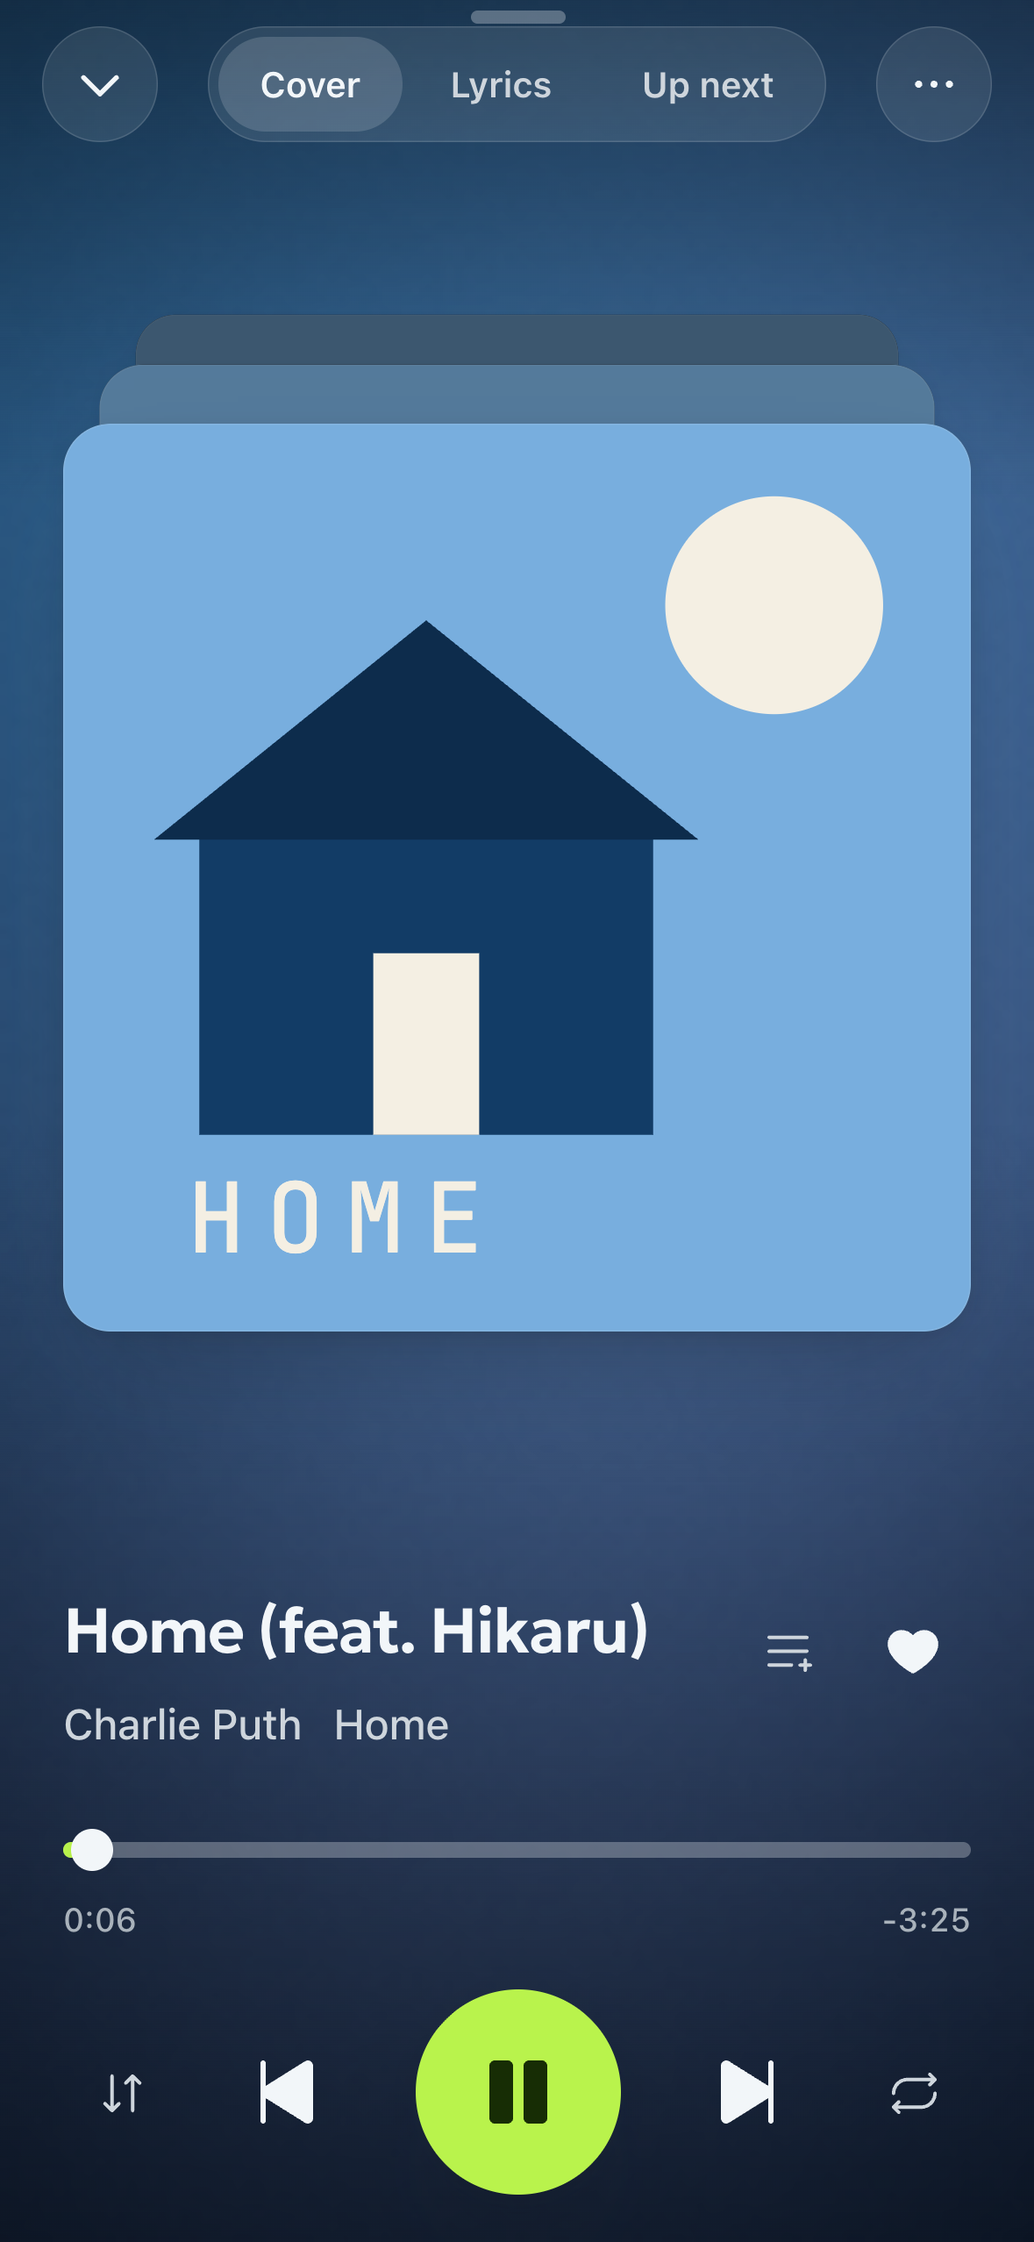
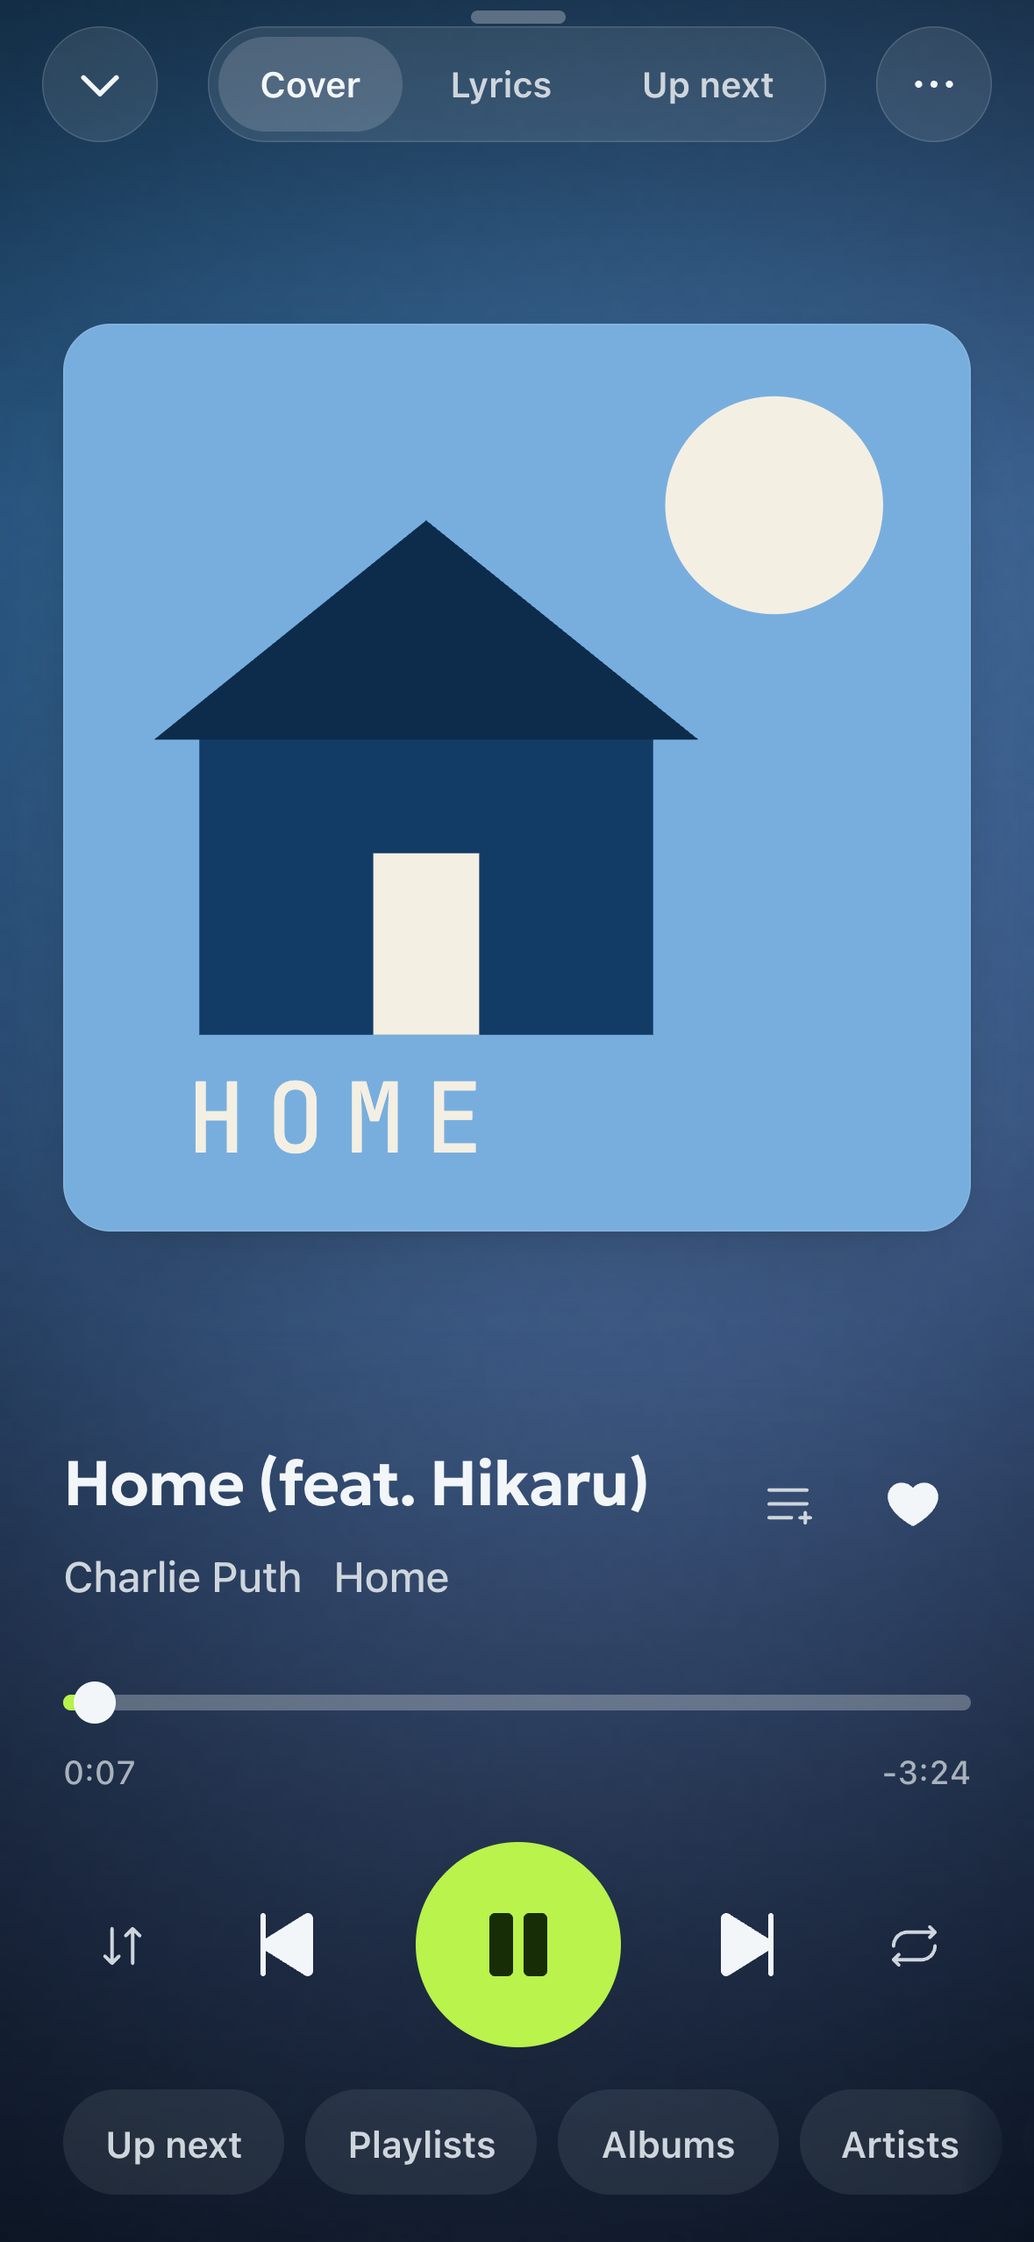
docs: 卡片浏览上墙——README、官网、DESIGN.md 跟着改，播放页截图重拍
- README / README_CN：「队列是一叠牌」换成「按封面挑歌」；界面一节加卡片浏览的截图，和正在播放并排。
- 官网：播放一节加「挑歌」标签和截图，三条说明里的叠牌换成按封面挑歌；正在播放的横屏、手机截图重拍
  （后面不再叠封面，控制下面多了一排入口）。
- DESIGN.md：当前封面（CurrentCover）与卡片浏览的尺寸、两种入口尺寸、焦点环画在中间那张卡上；
  开场动画只走合成器；黑胶 24 秒一圈；去掉已经没人用的 --shell-surface。

diff --git a/website/script.js b/website/script.js
@@ -29,16 +29,17 @@
     'windows.ipad.alt': 'iPad 竖屏上的专辑页：左侧导航条',
     'player.title': '房间取封面的颜色',
     'player.sub': '当前封面的色相落进房间的光里。亮度按主题固定，所以不管封面是什么颜色，字都读得清。点下面的画面，看光怎么换。',
-    'player.tab.player': '舞台', 'player.tab.phone': '手机',
+    'player.tab.player': '舞台', 'player.tab.browse': '挑歌', 'player.tab.phone': '手机',
     'player.tab.dark': '深色', 'player.tab.login': '欢迎页',
-    'player.cap.player': '横着的窗口：封面叠在左边，下面是控制，右边是放大的歌词，正在唱的那一行全亮。点任意一行跳过去。',
-    'player.cap.phone': '手机上的全屏播放器：从播放条上展开，封面从迷你播放条飞过来，叠在最上面。',
+    'player.cap.player': '横着的窗口：封面在左边，下面是控制和一排挑歌的入口；右边是放大的歌词，正在唱的那一行全亮。点任意一行跳过去。',
+    'player.cap.browse': '按封面挑歌：中间那张最大，两边小一档、压暗一点。左右滑着挑，点正中那张就放；每一栏记得自己滑到哪儿。',
+    'player.cap.phone': '手机上的全屏播放器：从播放条上展开，封面从迷你播放条飞到上方。',
     'player.cap.dark': '深色：青柠在暗底上本身就够亮，直接当强调色。亮暗切换从开关处铺开，也可以跟随系统。',
     'player.cap.login': '欢迎页：糯米和毛豆挥手；还没有歌在放，房间的光是青柠色。NAS 几秒连上，网易云音乐、QQ 音乐用手机扫个码。',
     'stage.f1t': '全屏播放器是一座暗色舞台',
     'stage.f1b': '光场取自当前封面。歌词放得很大，正在唱的那一行全亮。它从播放条上展开，封面从迷你播放条飞过来。',
-    'stage.f2t': '队列是一叠封面',
-    'stage.f2b': '向左一甩是下一首，向右是上一首。点一下露出来的那几张，打开「接下来」。',
+    'stage.f2t': '按封面挑歌',
+    'stage.f2b': '接下来、歌单、专辑、歌手、收藏、全部歌曲，都能摊成一排大封面：左右滑着挑，点正中那张就放。',
     'stage.f3t': '换歌时，光从封面漫开',
     'stage.f3b': '新封面的颜色从它所在的位置向外铺开，把上一首的光推出去。系统开了「减弱动态效果」时只换颜色，不铺开。',
     'ipad.title': '在 iPad 上，像个 iPad 应用',
@@ -117,16 +118,17 @@
     'windows.ipad.alt': 'An album page on iPad in portrait with the side rail',
     'player.title': 'The room takes the colour of the cover',
     'player.sub': 'The hue of the cover that is playing falls into the light of the room. Lightness is fixed for each theme, so text stays readable on any cover. Pick a screen below and watch the light change.',
-    'player.tab.player': 'Stage', 'player.tab.phone': 'Phone',
+    'player.tab.player': 'Stage', 'player.tab.browse': 'Browse', 'player.tab.phone': 'Phone',
     'player.tab.dark': 'Dark', 'player.tab.login': 'Welcome',
-    'player.cap.player': 'A landscape window: the deck of covers and the controls on the left, large lyrics on the right with the current line fully lit. Tap any line to jump there.',
-    'player.cap.phone': 'The full-screen player on iPhone: it unfolds from the player bar, and the cover flies up from the mini player to sit on top.',
+    'player.cap.player': 'A landscape window: the cover on the left with the controls and the ways to browse below it, large lyrics on the right with the current line fully lit. Tap any line to jump there.',
+    'player.cap.browse': 'Pick by cover: the one in the middle is largest, its neighbours a size smaller and dimmed. Swipe through, tap the middle one to play; each row remembers where you left it.',
+    'player.cap.phone': 'The full-screen player on iPhone: it unfolds from the player bar, and the cover flies up from the mini player.',
     'player.cap.dark': 'Dark: lime is bright enough on a dark ground to be the accent itself. Switching between light and dark spreads out from the toggle, or follows the system.',
     'player.cap.login': 'The welcome page: Nuomi and Maodou wave, and with no song playing the light of the room is lime. A NAS connects in seconds; NetEase Cloud Music and QQ Music take a scan from your phone.',
     'stage.f1t': 'The full-screen player is a dark stage',
     'stage.f1b': 'A light field sampled from the cover lights it. Lyrics are large and the current line is fully lit. It unfolds from the player bar, and the cover flies up from the mini player.',
-    'stage.f2t': 'The queue is a deck of covers',
-    'stage.f2b': 'Flick left for the next track, right for the previous one. Tap the cards peeking out behind to open Up Next.',
+    'stage.f2t': 'Pick by cover',
+    'stage.f2b': 'Up Next, playlists, albums, artists, favourites and all tracks each open as a row of large covers. Swipe through, tap the middle one to play.',
     'stage.f3t': 'On a new track, the light spreads from the cover',
     'stage.f3b': 'The new cover’s colour spreads out from where the cover sits and pushes the previous light away. With Reduce Motion on, the colour simply changes.',
     'ipad.title': 'On iPad, it behaves like an iPad app',
@@ -215,11 +217,15 @@
   var SHOTS = {
     player: {
       src: 'assets/player.webp', w: 1376, h: 1032, room: 'player', orient: 'landscape',
-      alt: ['横屏的全屏播放器：左边是叠在一起的封面和控制，右边是放大的歌词', 'The full-screen player in landscape: a deck of covers and controls on the left, large lyrics on the right'],
+      alt: ['横屏的全屏播放器：左边是封面和控制，下面一排挑歌的入口，右边是放大的歌词', 'The full-screen player in landscape: the cover, the controls and the ways to browse on the left, large lyrics on the right'],
+    },
+    browse: {
+      src: 'assets/browse.webp', w: 1376, h: 1032, room: 'player', orient: 'landscape',
+      alt: ['按封面挑专辑：中间一张大封面，两边小一档，下面是播放键', 'Browsing albums by cover: one large cover in the middle, its neighbours smaller on either side, a Play button underneath'],
     },
     phone: {
       src: 'assets/phone-player.webp', w: 1179, h: 2556, room: 'phone', orient: 'portrait',
-      alt: ['iPhone 上的全屏播放器：封面叠在上方，下面是进度条和播放键', 'The full-screen player on iPhone: a deck of covers on top, progress and play controls below'],
+      alt: ['iPhone 上的全屏播放器：封面在上方，下面是进度条、播放键和一排挑歌的入口', 'The full-screen player on iPhone: the cover on top, then progress, play controls and the ways to browse'],
     },
     dark: {
       src: 'assets/home-dark.webp', w: 1376, h: 1032, room: 'dark', orient: 'landscape',

diff --git a/website/index.html b/website/index.html
@@ -111,6 +111,7 @@
 
         <div class="tabs" role="tablist" aria-label="Screens">
           <button class="tab is-on" id="tab-player" type="button" role="tab" aria-selected="true"  aria-controls="stagePanel" data-shot="player" data-i18n="player.tab.player">舞台</button>
+          <button class="tab" id="tab-browse" type="button" role="tab" aria-selected="false" aria-controls="stagePanel" data-shot="browse" data-i18n="player.tab.browse">挑歌</button>
           <button class="tab" id="tab-phone" type="button" role="tab" aria-selected="false" aria-controls="stagePanel" data-shot="phone"  data-i18n="player.tab.phone">手机</button>
           <button class="tab" id="tab-dark" type="button" role="tab" aria-selected="false" aria-controls="stagePanel" data-shot="dark"   data-i18n="player.tab.dark">深色</button>
           <button class="tab" id="tab-login" type="button" role="tab" aria-selected="false" aria-controls="stagePanel" data-shot="login"  data-i18n="player.tab.login">欢迎页</button>
@@ -119,9 +120,9 @@
         <div id="stagePanel" role="tabpanel" aria-labelledby="tab-player" tabindex="0">
           <figure class="stage" data-orient="landscape">
             <div class="stage-frame">
-              <img class="shot" id="stageImg" src="assets/player.webp" alt="横屏的全屏播放器：左边是叠在一起的封面和控制，右边是放大的歌词" width="1376" height="1032" loading="lazy" />
+              <img class="shot" id="stageImg" src="assets/player.webp" alt="横屏的全屏播放器：左边是封面和控制，下面一排挑歌的入口，右边是放大的歌词" width="1376" height="1032" loading="lazy" />
             </div>
-            <figcaption id="stageCaption" data-i18n="player.cap.player">横着的窗口：封面叠在左边，下面是控制，右边是放大的歌词，正在唱的那一行全亮。点任意一行跳过去。</figcaption>
+            <figcaption id="stageCaption" data-i18n="player.cap.player">横着的窗口：封面在左边，下面是控制和一排挑歌的入口；右边是放大的歌词，正在唱的那一行全亮。点任意一行跳过去。</figcaption>
           </figure>
         </div>
 
@@ -131,8 +132,8 @@
             <p data-i18n="stage.f1b">光场取自当前封面。歌词放得很大，正在唱的那一行全亮。它从播放条上展开，封面从迷你播放条飞过来。</p>
           </div>
           <div class="stage-fact">
-            <h3 data-i18n="stage.f2t">队列是一叠封面</h3>
-            <p data-i18n="stage.f2b">向左一甩是下一首，向右是上一首。点一下露出来的那几张，打开「接下来」。</p>
+            <h3 data-i18n="stage.f2t">按封面挑歌</h3>
+            <p data-i18n="stage.f2b">接下来、歌单、专辑、歌手、收藏、全部歌曲，都能摊成一排大封面：左右滑着挑，点正中那张就放。</p>
           </div>
           <div class="stage-fact">
             <h3 data-i18n="stage.f3t">换歌时，光从封面漫开</h3>

diff --git a/README.md b/README.md
@@ -47,7 +47,7 @@ N1KO MUSIC wants to be a player you leave open all day. v6 rebuilt the interface
 |---|---|
 | **The room takes the colour of the song** | The shell is a quiet porcelain white (graphite at night), and the cover of the current track washes it in its own colour. Only the hue is taken; lightness is fixed per theme, so text stays just as readable whatever the cover. When the track changes, the new colour spreads outward from the cover. |
 | **The lights go down** | The full-screen player is always a dark stage: the background is a light field sampled from the cover, four soft lights drifting slowly; lyrics are set large and the current line is fully lit. Opening it unfolds the stage from the player bar while the cover flies over from the mini player; closing it reverses the trip. |
-| **The queue is a deck** | The next two covers peek out behind the one that is playing. Flick left for the next track, right for the previous one; the card behind leans forward as you flick. Tap the peeking cards to open the full Up Next list. |
+| **Pick by cover** | Under the controls sit Up Next, Playlists, Albums, Artists, Favourites and All tracks. Each opens a row of large covers: swipe through them and tap the one in the middle to play it. The cover that is playing still flicks: left for the next track, right for the previous one. |
 | **It moves like a thing** | Every press answers immediately and settles back without wobble; drags follow the finger, keep their velocity and can be interrupted at any time. Mouse wheels get an inertial glide (trackpads and touch already have one, so they are left alone), shelves snap card by card, and switching light and dark spreads out from the toggle. With Reduce Motion on, movement turns into plain fades. |
 | **Window-shaped, not device-shaped** | A narrow window gets a floating tab bar, a medium one a navigation rail, a wide one an iPadOS-style sidebar plus a Now Playing panel. |
 | **Nuomi and Maodou** | A white bunny in overalls and a green frog in headphones. They only appear when there is nothing else to look at: the splash, the welcome screen, an empty list, an error, with one pose per state. |
@@ -67,20 +67,26 @@ the source renders, the prompts behind them and the local cut-out script are in 
 
 <table>
 <tr>
-<td width="50%"><img src="docs/screenshots/v6/player.png" alt="Now Playing in landscape: a light field sampled from the cover, the queue as a deck, large lyrics" /></td>
+<td width="50%"><img src="docs/screenshots/v6/player.png" alt="Now Playing in landscape: a light field sampled from the cover, the cover and controls, large lyrics" /></td>
+<td width="50%"><img src="docs/screenshots/v6/browse.png" alt="Browsing albums by cover: one large cover in the middle, its neighbours smaller on either side, a Play button underneath" /></td>
+</tr>
+<tr>
+<td><b>Now Playing</b>: in a landscape window the cover and controls sit on the left with the ways to browse underneath; lyrics stay on the right, tap any line to jump to it.</td>
+<td><b>Pick by cover</b>: Up Next, playlists, albums, artists, favourites and all tracks, each as a row of large covers. Swipe through, tap the one in the middle to play it.</td>
+</tr>
+<tr>
 <td width="50%"><img src="docs/screenshots/v6/home-dark.png" alt="Home in dark mode" /></td>
-</tr>
-<tr>
-<td><b>Now Playing</b>: in a landscape window the deck and controls sit on the left, lyrics stay on the right; tap any line to jump to it.</td>
-<td><b>Dark</b>: graphite at night, with the room lit by the current cover. Follows the system setting.</td>
-</tr>
-<tr>
 <td width="50%"><img src="docs/screenshots/v6/album.png" alt="An album page on iPad in landscape: a large cover, the tracks and a margin note" /></td>
-<td width="50%"><img src="docs/screenshots/v6/login.png" alt="The connect page: Nuomi and Maodou waving hello" /></td>
 </tr>
 <tr>
+<td><b>Dark</b>: graphite at night, with the room lit by the current cover. Follows the system setting.</td>
 <td><b>Album page</b>: tap a card and its cover flies into place; scroll and the header folds away. Tracks, liner notes and your own margin note live on one page.</td>
-<td><b>Connect</b>: self-hosted servers and streaming sources both start here.</td>
+</tr>
+<tr>
+<td colspan="2" align="center"><img src="docs/screenshots/v6/login.png" alt="The connect page: Nuomi and Maodou waving hello" width="50%" /></td>
+</tr>
+<tr>
+<td colspan="2" align="center"><b>Connect</b>: self-hosted servers and streaming sources both start here.</td>
 </tr>
 </table>
 

diff --git a/README_CN.md b/README_CN.md
@@ -46,7 +46,7 @@ N1KO MUSIC 想做的是一个你愿意一直开着的播放器。v6 把界面从
 |---|---|
 | **房间随歌变色** | 外壳是安静的冷瓷白（深色是石墨夜），当前曲目的封面把它的颜色洒进房间。取色只取色相，亮度按主题锁住，所以换哪张封面，文字都一样清楚。切歌时，新的颜色从封面的位置向外漫开。 |
 | **灯暗下来的舞台** | 全屏播放器永远是暗场：背景是从封面取色的光场，四盏柔光慢慢游走；歌词是大字，当前行全亮。打开时舞台从底部播放条展开、封面从迷你条飞过去，收起原路飞回。 |
-| **队列是一叠牌** | 正在放的封面后面露出接下来的两张。左甩下一首、右甩上一首，甩的时候后面那张会跟着往前凑；点露出来的牌，展开完整的「接下来」。 |
+| **按封面挑歌** | 控制下面一排入口：接下来、歌单、专辑、歌手、收藏、全部歌曲。点开是一排大封面，左右滑着挑，点正中那张就放。正在放的那张封面照样能甩：左甩下一首，右甩上一首。 |
 | **像实物一样动** | 按下立刻有反馈，松手平稳弹回；拖动跟手、带速度、随时可以打断。鼠标滚轮补上了惯性滑行（触控板和触屏本来就有，不碰）；横向书架按卡片吸附；切亮暗从开关处扩散。系统开了「减弱动态效果」，位移一律退成淡入淡出。 |
 | **只看窗口，不看设备** | 窄窗口是底部浮动标签栏，中等宽度是左侧导航条，宽窗口是 iPadOS 式侧栏加右侧「正在播放」面板。iPhone、展开的 iPhone Duo、iPad 分屏、台前调度里随手拖的窗口，都拿到合适的那一套。 |
 | **糯米和毛豆** | 一只穿背带裤的白兔，一只戴耳机的绿青蛙。它们只在没有内容可看的时候出来：开屏、登录欢迎、空列表、出错的时候；每种状态一个姿势。 |
@@ -66,20 +66,26 @@ N1KO MUSIC 想做的是一个你愿意一直开着的播放器。v6 把界面从
 
 <table>
 <tr>
-<td width="50%"><img src="docs/screenshots/v6/player.png" alt="横屏的正在播放：封面取色的光场、叠起来的队列、大字歌词" /></td>
+<td width="50%"><img src="docs/screenshots/v6/player.png" alt="横屏的正在播放：封面取色的光场、封面和控制、大字歌词" /></td>
+<td width="50%"><img src="docs/screenshots/v6/browse.png" alt="按封面挑专辑：中间一张大封面，两边小一档，下面是播放键" /></td>
+</tr>
+<tr>
+<td><b>正在播放</b>：横着的窗口左边是封面和控制，下面一排是挑歌的入口；右边一直摆着歌词，点任意一行跳过去。</td>
+<td><b>按封面挑歌</b>：接下来、歌单、专辑、歌手、收藏、全部歌曲，都能摊成一排大封面。左右滑着挑，点正中那张就放。</td>
+</tr>
+<tr>
 <td width="50%"><img src="docs/screenshots/v6/home-dark.png" alt="深色的首页" /></td>
-</tr>
-<tr>
-<td><b>正在播放</b>：横着的窗口左边是牌堆和控制，右边一直摆着歌词，点任意一行跳过去。</td>
-<td><b>深色</b>：石墨夜色，房间的光换成当前封面的颜色，跟随系统切换。</td>
-</tr>
-<tr>
 <td width="50%"><img src="docs/screenshots/v6/album.png" alt="iPad 横屏上的专辑页：大封面、曲目、边注" /></td>
-<td width="50%"><img src="docs/screenshots/v6/login.png" alt="连接页：糯米和毛豆挥手欢迎" /></td>
 </tr>
 <tr>
+<td><b>深色</b>：石墨夜色，房间的光换成当前封面的颜色，跟随系统切换。</td>
 <td><b>专辑页</b>：从卡片点进来，封面从原来的位置飞过来；往下滚，头部跟着收起。曲目、唱片说明和你自己的边注都在这一页。</td>
-<td><b>连接页</b>：自建服务器和流媒体音源都从这里连。</td>
+</tr>
+<tr>
+<td colspan="2" align="center"><img src="docs/screenshots/v6/login.png" alt="连接页：糯米和毛豆挥手欢迎" width="50%" /></td>
+</tr>
+<tr>
+<td colspan="2" align="center"><b>连接页</b>：自建服务器和流媒体音源都从这里连。</td>
 </tr>
 </table>
 
